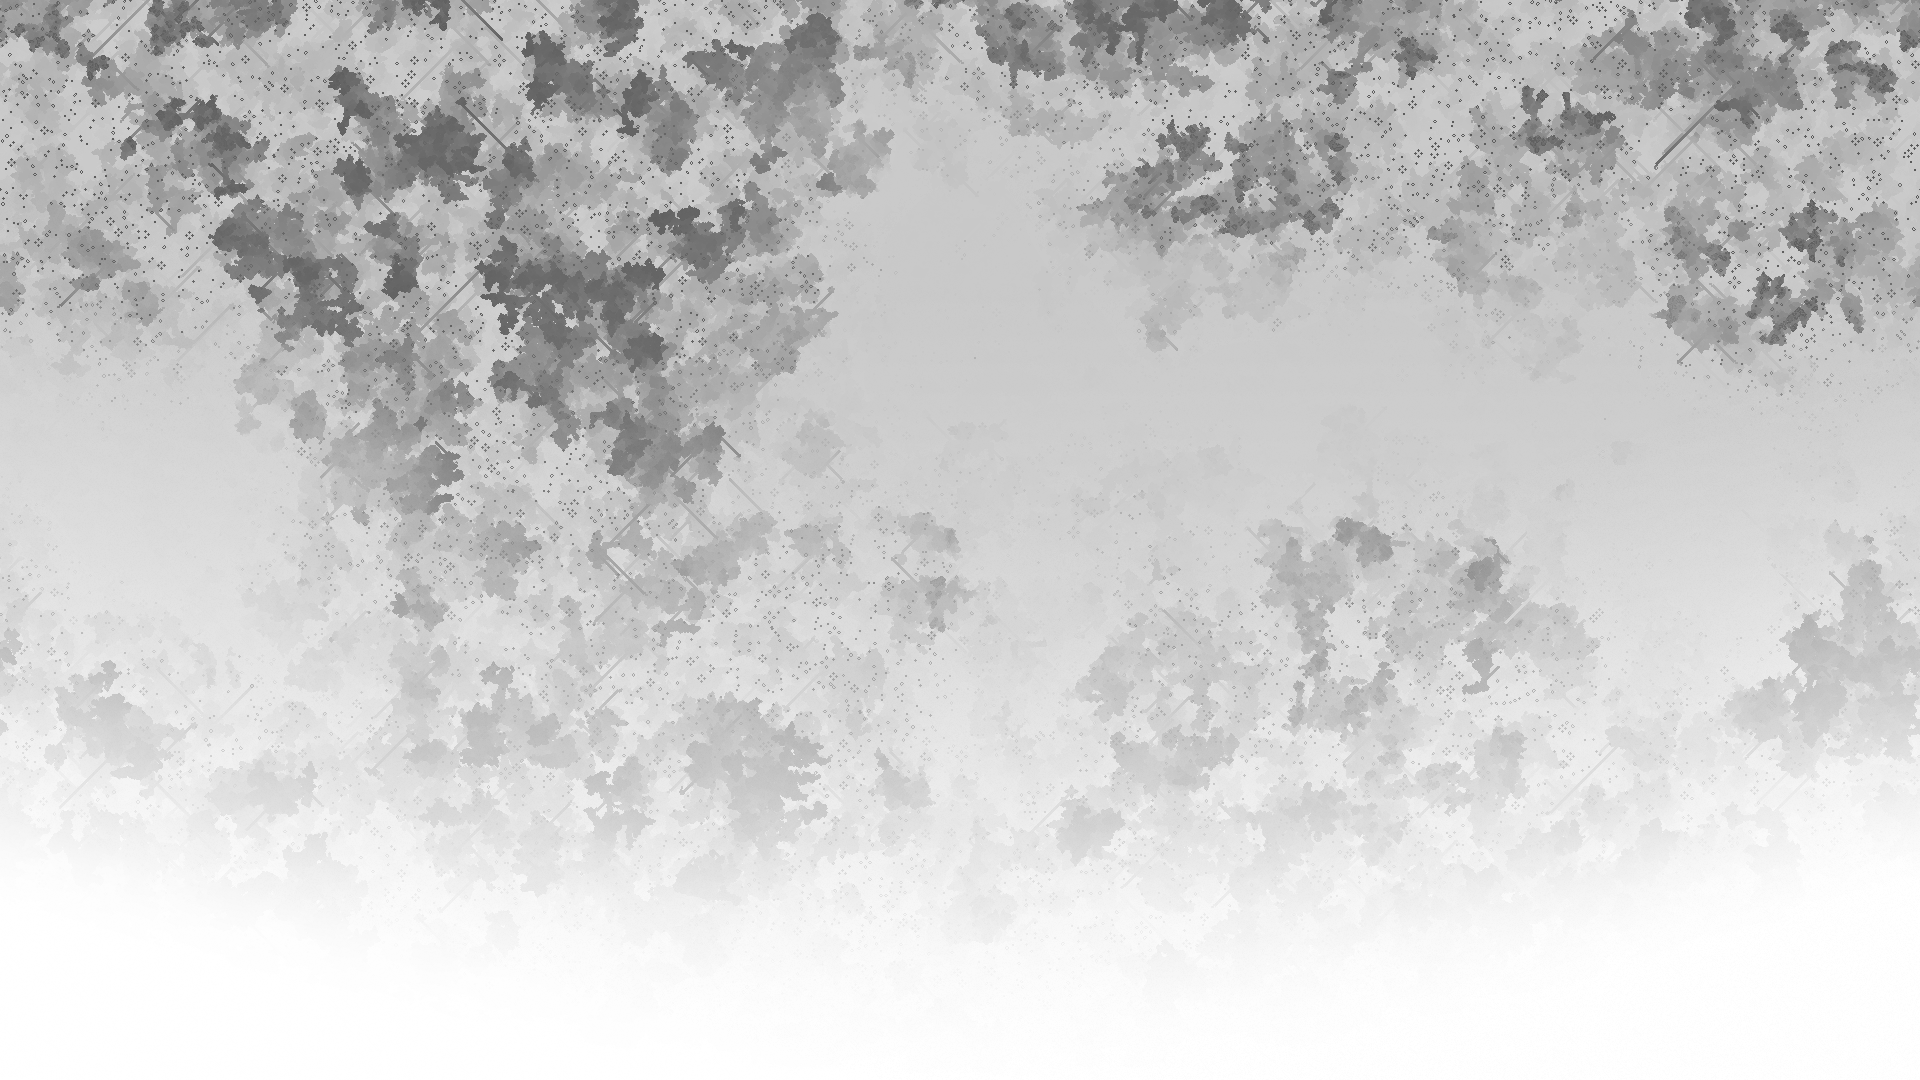
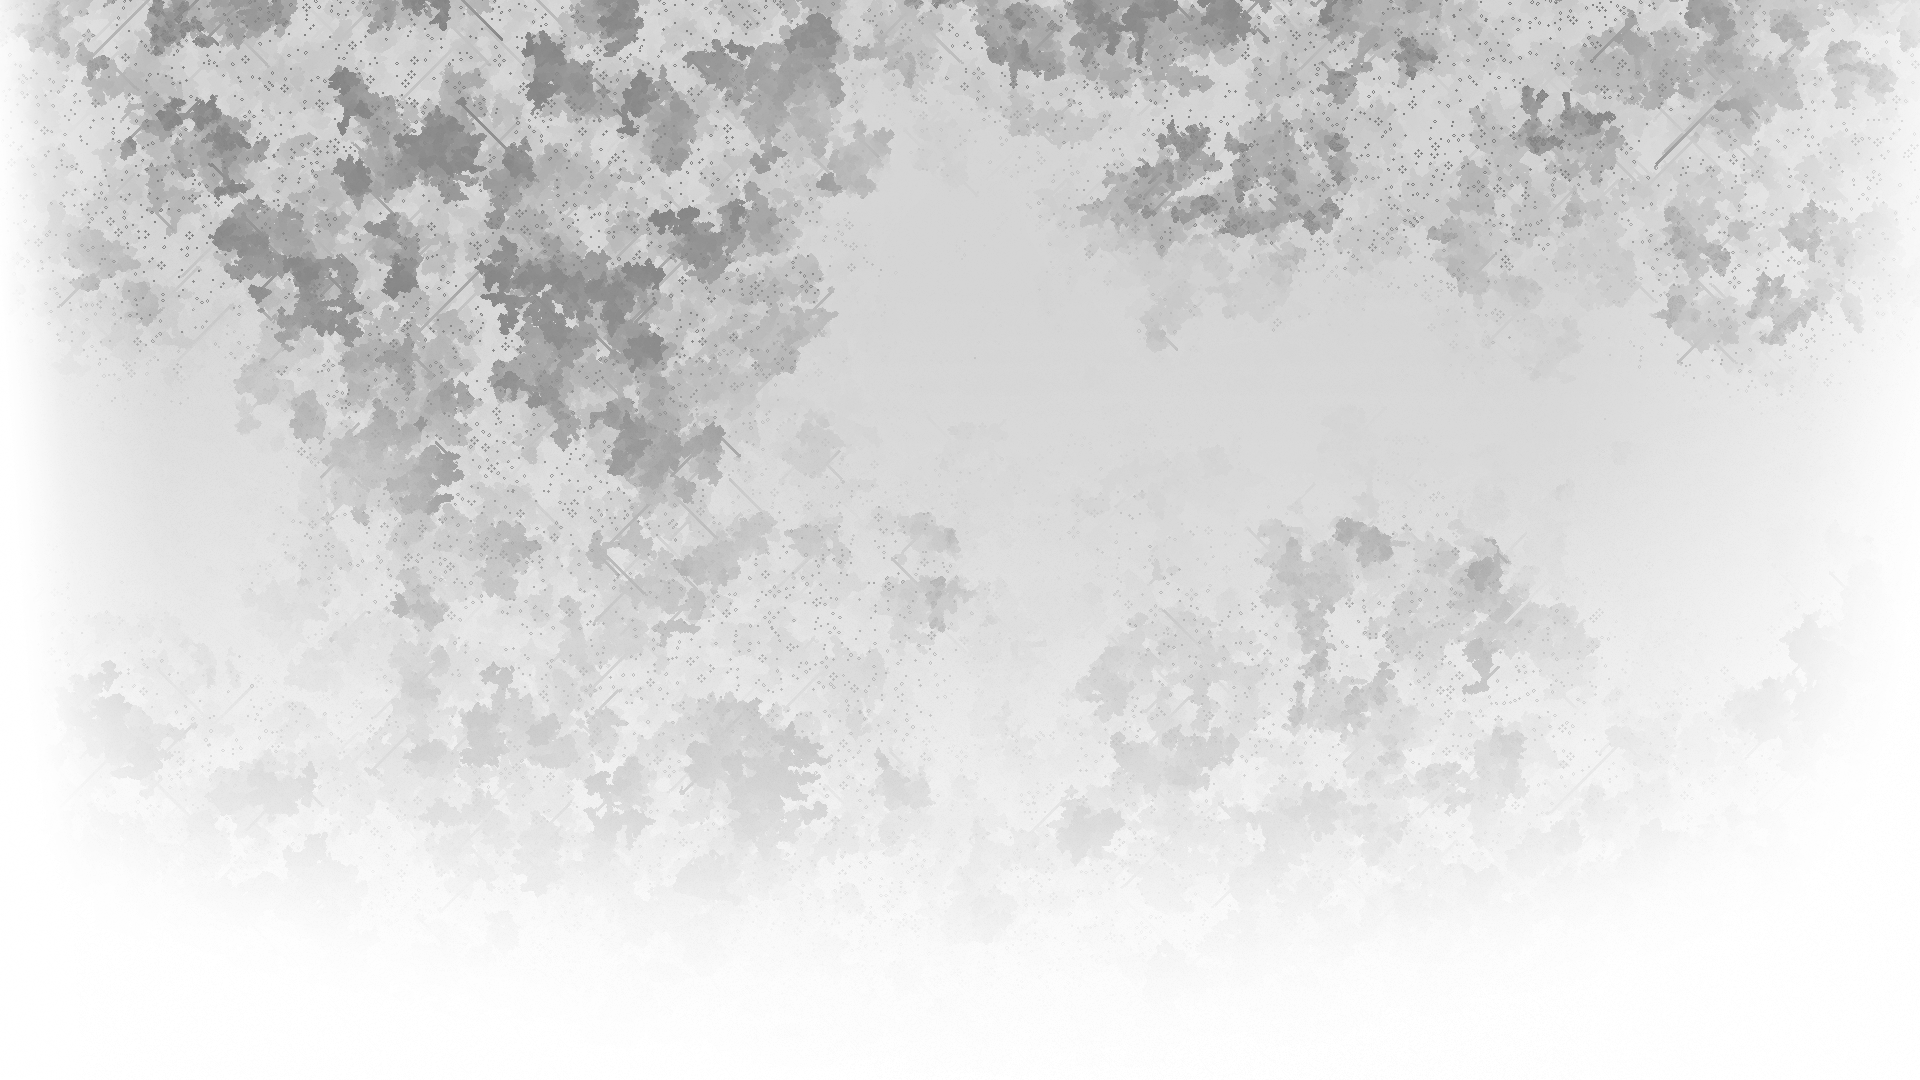
Improves small devices expereince on danger article

diff --git a/_sass/posts/danger.scss b/_sass/posts/danger.scss
@@ -1,3 +1,11 @@
-body > div {
-  background: url(/images/danger/bg.png) no-repeat;
+@media screen and (min-width: 900px) {
+  body > div {
+    background: url(/images/danger/bg.png) no-repeat;
+  }
+}
+
+@media screen and (max-width: 899px) {
+    body > div {
+    background: url(/images/danger/bg-small.png) no-repeat;
+  }
 }

diff --git a/_includes/epic_img.html b/_includes/epic_img.html
@@ -1,5 +1,5 @@
 </article>
-<a href='{{ include.url }}'>
+<a href='{{ include.url }}' style="{{ include.astyle }}">
   <img src="{{ include.url }}" alt="{{ include.title }}" style="{{ include.style }}">
 </a>
 <article class="post">

diff --git a/_sass/epic.scss b/_sass/epic.scss
@@ -120,7 +120,7 @@ body > div > div > footer {
 @media screen and (max-width: 800px) {
   body {
     header {
-      margin: 40px 20px;
+      padding: 40px 20px;
     }
   }
 

diff --git a/_posts/2017-04-22-danger-one-oh-again.md b/_posts/2017-04-22-danger-one-oh-again.md
@@ -67,6 +67,8 @@ This constraint negates one of the key problems with running running a Dangerfil
 
 In addition, JavaScript has a much simpler model for evaluating, importing and exporting code and so whitelisting modules and functions can be feasible for a hosted version of Danger. 
 
+<center><img src ="/images/danger/danger.png" style="width:50%"></center>
+
 # 1.0 is my middle name
 
 Any software project used in production should probably be 1.0, but in addition to production use a library needs documentation to be 1.0.
@@ -175,19 +177,18 @@ At Artsy we've found that first just integrating Danger with a single simple rul
 
 ## Which Danger should I use?
 
-This definitely depends on the project, but here's the main gist:
+This definitely depends on the project, there's a longer discussion [on the site](http://danger.systems/js/js-vs-ruby.html) too, but here's the main gist:
 
 * **Danger Ruby** is more mature, has more features, a solid plugin eco-system and covers more platforms. It's in a great place and is unlikely to have breaking changes from this point onwards.
 
 * **Danger JS** has a bigger potential for growth, is "stable enough", you can create plugins and will be able to do things that the Ruby version could not - eventually. Right now it only works with GitHub.
 
+
 ## Onwards and Upwards
 
 With the JavaScript version of Danger in a great place ready for production, I can start more serious work on [Peril][peril]. Peril is a hosted web-service that runs Dangerfiles against GitHub events, see [the VISION.md][peril-vision]. Those events span from a new user being created, to a new issue on a repo. Peril lets you run your own complex rules across an entire org. This can be a really powerful way to audit and improve entire-company culture.
 
-We started using Peril in Artsy [last week][peril-reaction]. So it's starting to become a thing internally. It'll be awesome to explore the idea of org-wide rules. 
-
-I think we're starting with making sure we assign someone on a PR. 
+We started using Peril in Artsy [last week][peril-reaction]. So it's starting to become a thing internally. It'll be awesome to explore the idea of org-wide rules. I think we're starting with making sure we assign someone on a PR. 
 
 So give Danger a shot, and if you're bold. give [Peril][peril] a shot.
 
